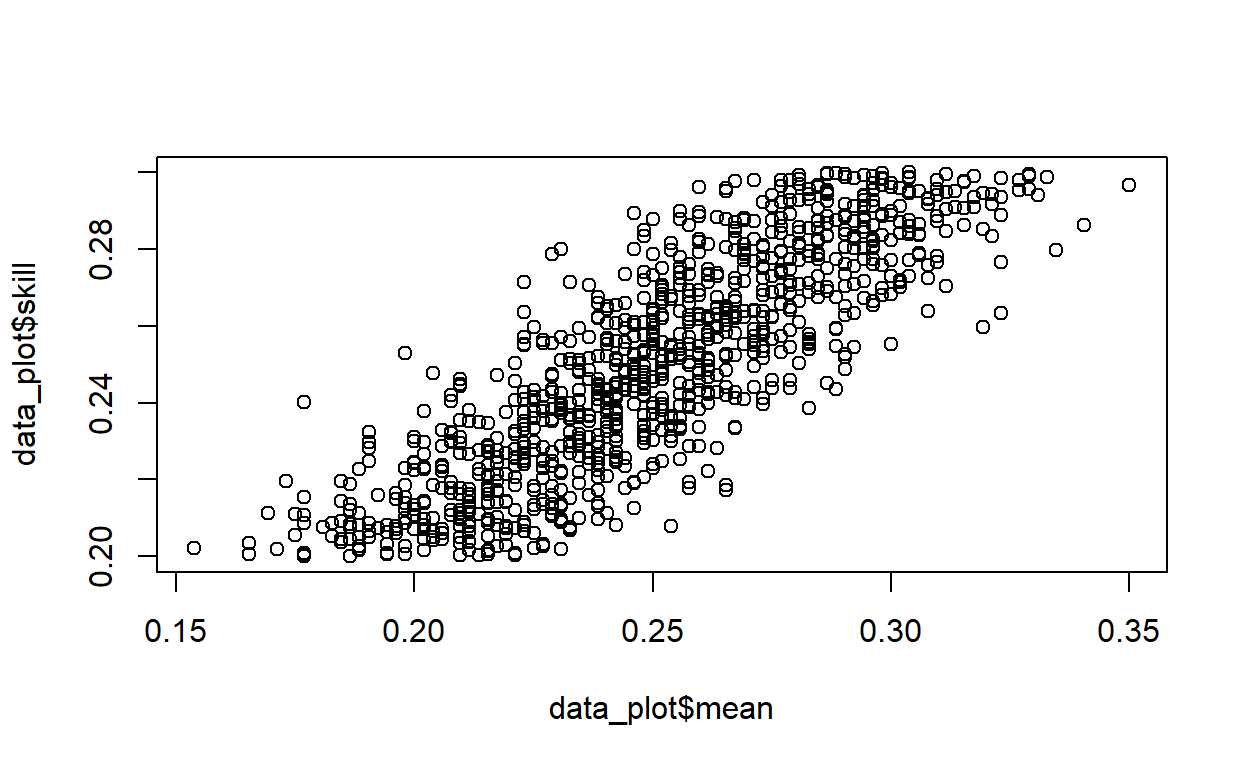
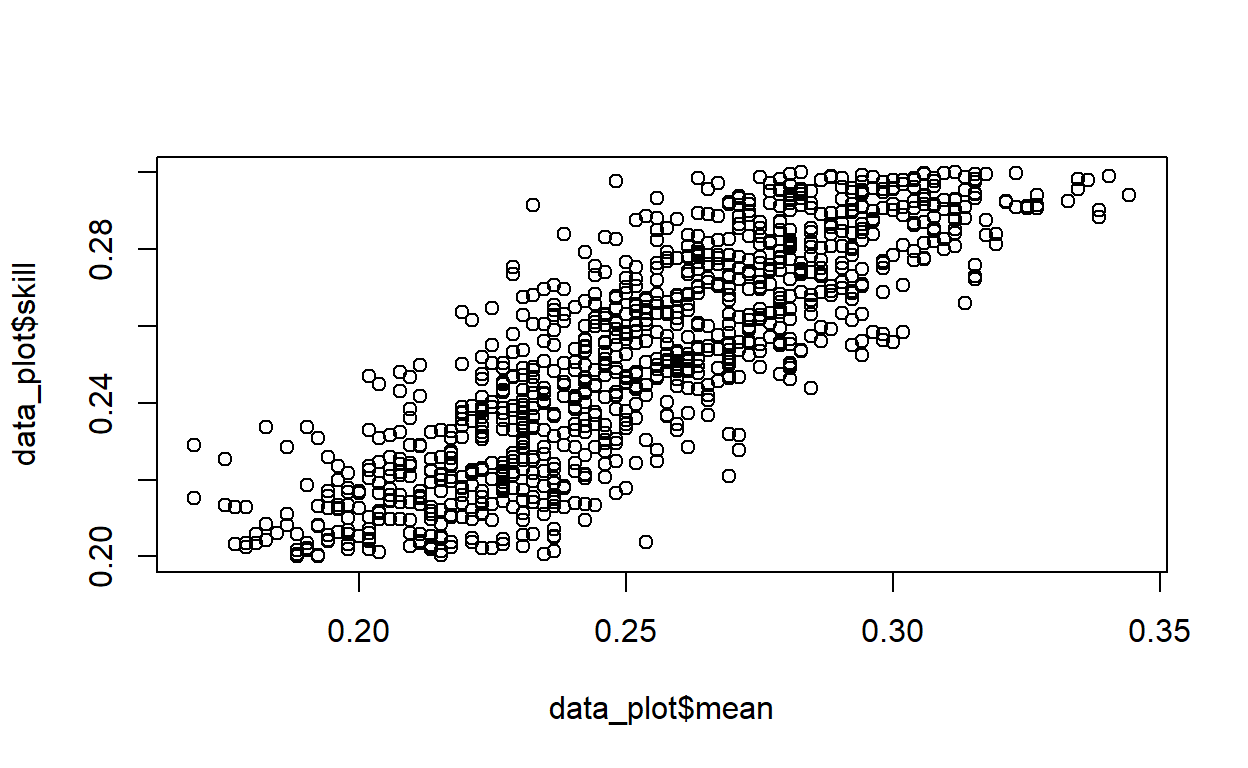
baseball

diff --git a/_posts/2023-02-05-baseball/baseball.html b/_posts/2023-02-05-baseball/baseball.html
@@ -1525,12 +1525,12 @@ code span.wa { color: #5e5e5e; font-style: italic; } /* Warning */
 <span></span>
 <span><span class='fu'><a href='https://rdrr.io/r/base/cat.html'>cat</a></span><span class='op'>(</span><span class='fu'><a href='https://rdrr.io/r/base/paste.html'>paste</a></span><span class='op'>(</span><span class='st'>"Korelacja wynosi "</span>, <span class='fu'><a href='https://rdrr.io/r/base/Round.html'>round</a></span><span class='op'>(</span><span class='fu'><a href='https://rdrr.io/r/stats/cor.html'>cor</a></span><span class='op'>(</span><span class='va'>data</span><span class='op'>$</span><span class='va'>X</span>,<span class='va'>data</span><span class='op'>$</span><span class='va'>Y</span><span class='op'>)</span>,<span class='fl'>3</span><span class='op'>)</span>,<span class='st'>"."</span>, sep <span class='op'>=</span> <span class='st'>""</span><span class='op'>)</span><span class='op'>)</span></span></code></pre>
 </div>
-<pre><code>Korelacja wynosi 0.079.</code></pre>
+<pre><code>Korelacja wynosi 0.078.</code></pre>
 <div class="sourceCode">
 <pre class="sourceCode r"><code class="sourceCode r"><span><span class='fu'><a href='https://rdrr.io/r/base/cat.html'>cat</a></span><span class='op'>(</span> <span class='fu'><a href='https://rdrr.io/r/base/paste.html'>paste</a></span><span class='op'>(</span><span class='st'>"Wariancja błędu wynosi"</span>,</span>
 <span><span class='fu'><a href='https://rdrr.io/r/base/Round.html'>round</a></span><span class='op'>(</span><span class='fu'><a href='https://rdrr.io/r/base/sum.html'>sum</a></span><span class='op'>(</span><span class='fu'><a href='https://rdrr.io/r/base/tapply.html'>tapply</a></span><span class='op'>(</span><span class='va'>data</span><span class='op'>$</span><span class='va'>X</span>, <span class='va'>data</span><span class='op'>$</span><span class='va'>Y</span>, <span class='va'>Var</span><span class='op'>)</span><span class='op'>*</span><span class='fu'><a href='https://rdrr.io/r/base/tapply.html'>tapply</a></span><span class='op'>(</span><span class='va'>data</span><span class='op'>$</span><span class='va'>X</span>, <span class='va'>data</span><span class='op'>$</span><span class='va'>Y</span>, <span class='va'>length</span><span class='op'>)</span><span class='op'>/</span><span class='fu'><a href='https://rdrr.io/r/base/length.html'>length</a></span><span class='op'>(</span><span class='va'>data</span><span class='op'>$</span><span class='va'>X</span><span class='op'>)</span><span class='op'>)</span>,<span class='fl'>3</span><span class='op'>)</span><span class='op'>)</span>,<span class='st'>"."</span>,sep <span class='op'>=</span> <span class='st'>""</span><span class='op'>)</span></span></code></pre>
 </div>
-<pre><code>Wariancja błędu wynosi 0.187.</code></pre>
+<pre><code>Wariancja błędu wynosi 0.188.</code></pre>
 <div class="sourceCode">
 <pre class="sourceCode r"><code class="sourceCode r"><span><span class='fu'><a href='https://rdrr.io/r/base/cat.html'>cat</a></span><span class='op'>(</span><span class='fu'><a href='https://rdrr.io/r/base/paste.html'>paste</a></span><span class='op'>(</span><span class='st'>"Wariancja przewidywania wynosi"</span>, <span class='fu'><a href='https://rdrr.io/r/base/Round.html'>round</a></span><span class='op'>(</span><span class='fu'>Var</span><span class='op'>(</span><span class='va'>data</span><span class='op'>$</span><span class='va'>X</span><span class='op'>)</span> </span>
 <span><span class='op'>-</span> <span class='fu'><a href='https://rdrr.io/r/base/sum.html'>sum</a></span><span class='op'>(</span><span class='fu'><a href='https://rdrr.io/r/base/tapply.html'>tapply</a></span><span class='op'>(</span><span class='va'>data</span><span class='op'>$</span><span class='va'>X</span>, <span class='va'>data</span><span class='op'>$</span><span class='va'>Y</span>, <span class='va'>Var</span><span class='op'>)</span><span class='op'>*</span><span class='fu'><a href='https://rdrr.io/r/base/tapply.html'>tapply</a></span><span class='op'>(</span><span class='va'>data</span><span class='op'>$</span><span class='va'>X</span>, <span class='va'>data</span><span class='op'>$</span><span class='va'>Y</span>, <span class='va'>length</span><span class='op'>)</span><span class='op'>/</span><span class='fu'><a href='https://rdrr.io/r/base/length.html'>length</a></span><span class='op'>(</span><span class='va'>data</span><span class='op'>$</span><span class='va'>X</span><span class='op'>)</span><span class='op'>)</span>,<span class='fl'>3</span><span class='op'>)</span>,<span class='st'>"."</span><span class='op'>)</span><span class='op'>)</span></span></code></pre>
@@ -1553,17 +1553,17 @@ code span.wa { color: #5e5e5e; font-style: italic; } /* Warning */
 <span><span class='op'>}</span></span>
 <span><span class='fu'><a href='https://rdrr.io/r/base/cat.html'>cat</a></span><span class='op'>(</span><span class='fu'><a href='https://rdrr.io/r/base/paste.html'>paste</a></span><span class='op'>(</span><span class='st'>"Korelacja wynosi "</span>, <span class='fu'><a href='https://rdrr.io/r/base/Round.html'>round</a></span><span class='op'>(</span><span class='fu'><a href='https://rdrr.io/r/stats/cor.html'>cor</a></span><span class='op'>(</span><span class='va'>data2</span><span class='op'>$</span><span class='va'>X</span>,<span class='va'>data2</span><span class='op'>$</span><span class='va'>Y</span><span class='op'>)</span>,<span class='fl'>3</span><span class='op'>)</span>,<span class='st'>"."</span>, sep <span class='op'>=</span> <span class='st'>""</span><span class='op'>)</span><span class='op'>)</span></span></code></pre>
 </div>
-<pre><code>Korelacja wynosi 0.421.</code></pre>
+<pre><code>Korelacja wynosi 0.438.</code></pre>
 <div class="sourceCode">
 <pre class="sourceCode r"><code class="sourceCode r"><span><span class='fu'><a href='https://rdrr.io/r/base/cat.html'>cat</a></span><span class='op'>(</span> <span class='fu'><a href='https://rdrr.io/r/base/paste.html'>paste</a></span><span class='op'>(</span><span class='st'>"Wariancja błędu wynosi"</span>,</span>
 <span><span class='fu'><a href='https://rdrr.io/r/base/Round.html'>round</a></span><span class='op'>(</span><span class='fu'><a href='https://rdrr.io/r/base/sum.html'>sum</a></span><span class='op'>(</span><span class='fu'><a href='https://rdrr.io/r/base/tapply.html'>tapply</a></span><span class='op'>(</span><span class='va'>data2</span><span class='op'>$</span><span class='va'>X</span>, <span class='va'>data2</span><span class='op'>$</span><span class='va'>Y</span>, <span class='va'>Var</span><span class='op'>)</span><span class='op'>*</span><span class='fu'><a href='https://rdrr.io/r/base/tapply.html'>tapply</a></span><span class='op'>(</span><span class='va'>data2</span><span class='op'>$</span><span class='va'>X</span>, <span class='va'>data2</span><span class='op'>$</span><span class='va'>Y</span>, <span class='va'>length</span><span class='op'>)</span><span class='op'>/</span><span class='fu'><a href='https://rdrr.io/r/base/length.html'>length</a></span><span class='op'>(</span><span class='va'>data2</span><span class='op'>$</span><span class='va'>X</span><span class='op'>)</span><span class='op'>)</span>,<span class='fl'>3</span><span class='op'>)</span><span class='op'>)</span>,<span class='st'>"."</span>,sep <span class='op'>=</span> <span class='st'>""</span><span class='op'>)</span></span></code></pre>
 </div>
-<pre><code>Wariancja błędu wynosi 0.181.</code></pre>
+<pre><code>Wariancja błędu wynosi 0.176.</code></pre>
 <div class="sourceCode">
 <pre class="sourceCode r"><code class="sourceCode r"><span><span class='fu'><a href='https://rdrr.io/r/base/cat.html'>cat</a></span><span class='op'>(</span><span class='fu'><a href='https://rdrr.io/r/base/paste.html'>paste</a></span><span class='op'>(</span><span class='st'>"Wariancja przewidywania wynosi"</span>, <span class='fu'><a href='https://rdrr.io/r/base/Round.html'>round</a></span><span class='op'>(</span><span class='fu'>Var</span><span class='op'>(</span><span class='va'>data2</span><span class='op'>$</span><span class='va'>X</span><span class='op'>)</span> </span>
 <span><span class='op'>-</span> <span class='fu'><a href='https://rdrr.io/r/base/sum.html'>sum</a></span><span class='op'>(</span><span class='fu'><a href='https://rdrr.io/r/base/tapply.html'>tapply</a></span><span class='op'>(</span><span class='va'>data2</span><span class='op'>$</span><span class='va'>X</span>, <span class='va'>data2</span><span class='op'>$</span><span class='va'>Y</span>, <span class='va'>Var</span><span class='op'>)</span><span class='op'>*</span><span class='fu'><a href='https://rdrr.io/r/base/tapply.html'>tapply</a></span><span class='op'>(</span><span class='va'>data2</span><span class='op'>$</span><span class='va'>X</span>, <span class='va'>data2</span><span class='op'>$</span><span class='va'>Y</span>, <span class='va'>length</span><span class='op'>)</span><span class='op'>/</span><span class='fu'><a href='https://rdrr.io/r/base/length.html'>length</a></span><span class='op'>(</span><span class='va'>data2</span><span class='op'>$</span><span class='va'>X</span><span class='op'>)</span><span class='op'>)</span>,<span class='fl'>3</span><span class='op'>)</span>,<span class='st'>"."</span><span class='op'>)</span><span class='op'>)</span></span></code></pre>
 </div>
-<pre><code>Wariancja przewidywania wynosi 0.039 .</code></pre>
+<pre><code>Wariancja przewidywania wynosi 0.042 .</code></pre>
 </div>
 <p>Otrzymaliśmy dużo wyższą korelację. Zobaczmy co się tu stało. Wariancja przewidywania znacznie wzrosła, natomiast wariancja błędu zmalała. Dlaczego tak się stało skoro związek pomiędzy zmiennymi jest taki sam w obu symulacjach?</p>
 <p>Odpowiedź na to pytanie zawiera się w samym wzorze na wyjaśniną wariancję. Przyjrzyjmy się najpierw wariancji przewidywania <span class="math inline">\(Var(E(X|Y))\)</span>. Ponieważ <span class="math inline">\(Y = E(X|Z)\)</span> to wtedy <span class="math inline">\(Var(E(X|Y)) = Var(E(X|Z)) = Var(Y)\)</span>.</p>
@@ -1583,7 +1583,7 @@ n\cdot \text{Var}(\mathbf{x}) &amp;= \sum_i (x_i - \bar{x})^2= \sum_i x_i^2 - 2x
 <p><span class="math display">\[\text{Var}(\mathbf{x}) \leq \bar{x}(c-\bar{x})\]</span></p>
 <p>średnia uderzeń graczy Abelsona</p>
 <p><span class="math display">\[eta^2 = \frac{Var(Y)}{Var(X)} \le \frac{0.07(0.1-0.07)}{0.1971} = 0.01065\]</span></p>
-<p>może w najlepszym wypadku wyjaśnić 1% wariancji. Widzimy ze wzoru, że rozszerzanie przedziału, w którym znajdują się możliwe średnie graczy, będzie zwiększało procent możliwej do wyjaśnienia wariancji.</p>
+<p>może w najlepszym wypadku wyjaśnić 1% wariancji. Widzimy ze wzoru, że zachowując wartość średniej sukcesów jako stałą, rozszerzanie przedziału, w którym znajdują się możliwe średnie graczy, będzie zwiększało procent możliwej do wyjaśnienia wariancji.</p>
 <p>Wydaje mi się, że zdziwienie Abelsona wynikało z faktu, że spodziewał się, że procent wyjaśnionej wariancji w pojedyńczym sukcesie przez średnią gracza powinen być wysoki, ponieważ przewidujemy zachowanie na podstawie średniej miary tegoż zachowania, czyli jego średniej w dłuższym okresie (analgoicznie do neurotyzmu mającego przewidywać zachowania neurotyczne).</p>
 <p>Jednak Abelson licząc procent wyjasnionej wariancji zadał inne pytanie, mianowicie <strong>jak dobrze możemy przewidzieć sukces gracza w pojedyńczej próbie na podostawie jego średniej</strong>. Jak zauważyliśmy, nie będzie dobrze przewidywać, ponieważ zmienna Y nie różnicuje wystarczająco dobrze pomiędzy graczami względem wielkości błędu. Można to rozumieć w katagoriach niskiej rzetelności.</p>
 <p>To zjawisko generalizuje się na inne przykłady. Żeby sobie to zwizualizować zobaczmy średnie graczy w sezonie z symulacji pierwszej (średnia z 520 prób pojedyńczych odbić) naprzeciw prawdziwych średnich (prawdopodobieństw, których użyłem do wygenerowania danych, możemy je potraktować jako ich prawdziwą zdolność gry w bejsbol).</p>
@@ -1614,9 +1614,9 @@ Generalizuje się fakt, że im bardziej różne od siebie są średnie warunkowe
 <div class="sourceCode">
 <pre class="sourceCode r"><code class="sourceCode r"><span><span class='fu'><a href='https://rdrr.io/r/base/cat.html'>cat</a></span><span class='op'>(</span><span class='fu'><a href='https://rdrr.io/r/base/paste.html'>paste</a></span><span class='op'>(</span><span class='st'>"Korelacja wynosi "</span>, <span class='fu'><a href='https://rdrr.io/r/base/Round.html'>round</a></span><span class='op'>(</span><span class='fu'><a href='https://rdrr.io/r/stats/cor.html'>cor</a></span><span class='op'>(</span><span class='va'>data2_plot</span><span class='op'>$</span><span class='va'>skill</span>,<span class='va'>data2_plot</span><span class='op'>$</span><span class='va'>mean</span><span class='op'>)</span>,<span class='fl'>3</span><span class='op'>)</span>,<span class='st'>"."</span>, sep <span class='op'>=</span> <span class='st'>""</span><span class='op'>)</span><span class='op'>)</span></span></code></pre>
 </div>
-<pre><code>Korelacja wynosi 0.995.</code></pre>
+<pre><code>Korelacja wynosi 0.996.</code></pre>
 </div>
-<p>Jak widzimy korelacja jest większa w drugiej symulacji, mimo, że związek pomiędzy zmiennymi jest taki sam. Mamy tu do czynienia ze zjawiskiem Restricted Range Corelation - czyli sytuacji w której zmienna w próbie ma mniejszą wariancję niż w populacji. Ponieważ obserwacje są do siebie bardziej podobne, (są bliżej siebie na wykresie) wpływ błędu jest większy. Przybliżmy teraz drugi wykres tak, by widzieć wartości prawdziwej średniej z zakresu między 0.2 a 0.3.</p>
+<p>Jak widzimy korelacja jest większa w drugiej symulacji, mimo, że związek pomiędzy zmiennymi jest taki sam. Mamy tu do czynienia ze zjawiskiem <strong>Restricted Range Corelation</strong> - czyli sytuacji w której zmienna w próbie ma mniejszą wariancję niż w populacji. Ponieważ obserwacje są do siebie bardziej podobne (są bliżej siebie na wykresie), wpływ błędu jest większy. Przybliżmy teraz drugi wykres tak, by widzieć wartości prawdziwej średniej z zakresu między 0.2 a 0.3.</p>
 <div class="layout-chunk" data-layout="l-body">
 <div class="sourceCode">
 <pre class="sourceCode r"><code class="sourceCode r"><span><span class='va'>data3_plot</span> <span class='op'>=</span> <span class='va'>data2_plot</span> <span class='op'><a href='https://magrittr.tidyverse.org/reference/pipe.html'>%&gt;%</a></span> <span class='fu'><a href='https://dplyr.tidyverse.org/reference/filter.html'>filter</a></span><span class='op'>(</span><span class='va'>skill</span> <span class='op'>&gt;</span><span class='fl'>0.2</span> <span class='op'>&amp;</span> <span class='va'>skill</span> <span class='op'>&lt;</span> <span class='fl'>0.3</span><span class='op'>)</span></span>
@@ -1627,7 +1627,7 @@ Generalizuje się fakt, że im bardziej różne od siebie są średnie warunkowe
 <div class="sourceCode">
 <pre class="sourceCode r"><code class="sourceCode r"><span><span class='fu'><a href='https://rdrr.io/r/base/cat.html'>cat</a></span><span class='op'>(</span><span class='fu'><a href='https://rdrr.io/r/base/paste.html'>paste</a></span><span class='op'>(</span><span class='st'>"Korelacja wynosi "</span>, <span class='fu'><a href='https://rdrr.io/r/base/Round.html'>round</a></span><span class='op'>(</span><span class='fu'><a href='https://rdrr.io/r/stats/cor.html'>cor</a></span><span class='op'>(</span><span class='va'>data3_plot</span><span class='op'>$</span><span class='va'>skill</span>,<span class='va'>data3_plot</span><span class='op'>$</span><span class='va'>mean</span><span class='op'>)</span>,<span class='fl'>3</span><span class='op'>)</span>,<span class='st'>"."</span>, sep <span class='op'>=</span> <span class='st'>""</span><span class='op'>)</span><span class='op'>)</span></span></code></pre>
 </div>
-<pre><code>Korelacja wynosi 0.834.</code></pre>
+<pre><code>Korelacja wynosi 0.837.</code></pre>
 </div>
 <p>Widzimy, że ten wykres przypomina pierwszy wykres. Zawęziliśmy zakres zmiennej, więc błąd wydaje się relatywnie większy.</p>
 <p>Co natomiast możemy powiedzieć o małych wielkościach efektu w psychologii? Mały efekt, to po prostu mały efekt. Nie kumuluje się w czasie. Ale to nie znaczy, że jest nieistony. Jeśli badamy zachowanie człowieka, byłoby wręcz dziwnie, jeśli efekt jednej zmiennej byłby duży, zwłaszcza w przypadku złożonych zachowań.</p>

diff --git a/posts/2023-02-05-baseball/index.html b/posts/2023-02-05-baseball/index.html
@@ -2148,12 +2148,12 @@ document.addEventListener('DOMContentLoaded', function() {
 <span></span>
 <span><span class='fu'><a href='https://rdrr.io/r/base/cat.html'>cat</a></span><span class='op'>(</span><span class='fu'><a href='https://rdrr.io/r/base/paste.html'>paste</a></span><span class='op'>(</span><span class='st'>"Korelacja wynosi "</span>, <span class='fu'><a href='https://rdrr.io/r/base/Round.html'>round</a></span><span class='op'>(</span><span class='fu'><a href='https://rdrr.io/r/stats/cor.html'>cor</a></span><span class='op'>(</span><span class='va'>data</span><span class='op'>$</span><span class='va'>X</span>,<span class='va'>data</span><span class='op'>$</span><span class='va'>Y</span><span class='op'>)</span>,<span class='fl'>3</span><span class='op'>)</span>,<span class='st'>"."</span>, sep <span class='op'>=</span> <span class='st'>""</span><span class='op'>)</span><span class='op'>)</span></span></code></pre>
 </div>
-<pre><code>Korelacja wynosi 0.079.</code></pre>
+<pre><code>Korelacja wynosi 0.078.</code></pre>
 <div class="sourceCode">
 <pre class="sourceCode r"><code class="sourceCode r"><span><span class='fu'><a href='https://rdrr.io/r/base/cat.html'>cat</a></span><span class='op'>(</span> <span class='fu'><a href='https://rdrr.io/r/base/paste.html'>paste</a></span><span class='op'>(</span><span class='st'>"Wariancja błędu wynosi"</span>,</span>
 <span><span class='fu'><a href='https://rdrr.io/r/base/Round.html'>round</a></span><span class='op'>(</span><span class='fu'><a href='https://rdrr.io/r/base/sum.html'>sum</a></span><span class='op'>(</span><span class='fu'><a href='https://rdrr.io/r/base/tapply.html'>tapply</a></span><span class='op'>(</span><span class='va'>data</span><span class='op'>$</span><span class='va'>X</span>, <span class='va'>data</span><span class='op'>$</span><span class='va'>Y</span>, <span class='va'>Var</span><span class='op'>)</span><span class='op'>*</span><span class='fu'><a href='https://rdrr.io/r/base/tapply.html'>tapply</a></span><span class='op'>(</span><span class='va'>data</span><span class='op'>$</span><span class='va'>X</span>, <span class='va'>data</span><span class='op'>$</span><span class='va'>Y</span>, <span class='va'>length</span><span class='op'>)</span><span class='op'>/</span><span class='fu'><a href='https://rdrr.io/r/base/length.html'>length</a></span><span class='op'>(</span><span class='va'>data</span><span class='op'>$</span><span class='va'>X</span><span class='op'>)</span><span class='op'>)</span>,<span class='fl'>3</span><span class='op'>)</span><span class='op'>)</span>,<span class='st'>"."</span>,sep <span class='op'>=</span> <span class='st'>""</span><span class='op'>)</span></span></code></pre>
 </div>
-<pre><code>Wariancja błędu wynosi 0.187.</code></pre>
+<pre><code>Wariancja błędu wynosi 0.188.</code></pre>
 <div class="sourceCode">
 <pre class="sourceCode r"><code class="sourceCode r"><span><span class='fu'><a href='https://rdrr.io/r/base/cat.html'>cat</a></span><span class='op'>(</span><span class='fu'><a href='https://rdrr.io/r/base/paste.html'>paste</a></span><span class='op'>(</span><span class='st'>"Wariancja przewidywania wynosi"</span>, <span class='fu'><a href='https://rdrr.io/r/base/Round.html'>round</a></span><span class='op'>(</span><span class='fu'>Var</span><span class='op'>(</span><span class='va'>data</span><span class='op'>$</span><span class='va'>X</span><span class='op'>)</span> </span>
 <span><span class='op'>-</span> <span class='fu'><a href='https://rdrr.io/r/base/sum.html'>sum</a></span><span class='op'>(</span><span class='fu'><a href='https://rdrr.io/r/base/tapply.html'>tapply</a></span><span class='op'>(</span><span class='va'>data</span><span class='op'>$</span><span class='va'>X</span>, <span class='va'>data</span><span class='op'>$</span><span class='va'>Y</span>, <span class='va'>Var</span><span class='op'>)</span><span class='op'>*</span><span class='fu'><a href='https://rdrr.io/r/base/tapply.html'>tapply</a></span><span class='op'>(</span><span class='va'>data</span><span class='op'>$</span><span class='va'>X</span>, <span class='va'>data</span><span class='op'>$</span><span class='va'>Y</span>, <span class='va'>length</span><span class='op'>)</span><span class='op'>/</span><span class='fu'><a href='https://rdrr.io/r/base/length.html'>length</a></span><span class='op'>(</span><span class='va'>data</span><span class='op'>$</span><span class='va'>X</span><span class='op'>)</span><span class='op'>)</span>,<span class='fl'>3</span><span class='op'>)</span>,<span class='st'>"."</span><span class='op'>)</span><span class='op'>)</span></span></code></pre>
@@ -2176,17 +2176,17 @@ document.addEventListener('DOMContentLoaded', function() {
 <span><span class='op'>}</span></span>
 <span><span class='fu'><a href='https://rdrr.io/r/base/cat.html'>cat</a></span><span class='op'>(</span><span class='fu'><a href='https://rdrr.io/r/base/paste.html'>paste</a></span><span class='op'>(</span><span class='st'>"Korelacja wynosi "</span>, <span class='fu'><a href='https://rdrr.io/r/base/Round.html'>round</a></span><span class='op'>(</span><span class='fu'><a href='https://rdrr.io/r/stats/cor.html'>cor</a></span><span class='op'>(</span><span class='va'>data2</span><span class='op'>$</span><span class='va'>X</span>,<span class='va'>data2</span><span class='op'>$</span><span class='va'>Y</span><span class='op'>)</span>,<span class='fl'>3</span><span class='op'>)</span>,<span class='st'>"."</span>, sep <span class='op'>=</span> <span class='st'>""</span><span class='op'>)</span><span class='op'>)</span></span></code></pre>
 </div>
-<pre><code>Korelacja wynosi 0.421.</code></pre>
+<pre><code>Korelacja wynosi 0.438.</code></pre>
 <div class="sourceCode">
 <pre class="sourceCode r"><code class="sourceCode r"><span><span class='fu'><a href='https://rdrr.io/r/base/cat.html'>cat</a></span><span class='op'>(</span> <span class='fu'><a href='https://rdrr.io/r/base/paste.html'>paste</a></span><span class='op'>(</span><span class='st'>"Wariancja błędu wynosi"</span>,</span>
 <span><span class='fu'><a href='https://rdrr.io/r/base/Round.html'>round</a></span><span class='op'>(</span><span class='fu'><a href='https://rdrr.io/r/base/sum.html'>sum</a></span><span class='op'>(</span><span class='fu'><a href='https://rdrr.io/r/base/tapply.html'>tapply</a></span><span class='op'>(</span><span class='va'>data2</span><span class='op'>$</span><span class='va'>X</span>, <span class='va'>data2</span><span class='op'>$</span><span class='va'>Y</span>, <span class='va'>Var</span><span class='op'>)</span><span class='op'>*</span><span class='fu'><a href='https://rdrr.io/r/base/tapply.html'>tapply</a></span><span class='op'>(</span><span class='va'>data2</span><span class='op'>$</span><span class='va'>X</span>, <span class='va'>data2</span><span class='op'>$</span><span class='va'>Y</span>, <span class='va'>length</span><span class='op'>)</span><span class='op'>/</span><span class='fu'><a href='https://rdrr.io/r/base/length.html'>length</a></span><span class='op'>(</span><span class='va'>data2</span><span class='op'>$</span><span class='va'>X</span><span class='op'>)</span><span class='op'>)</span>,<span class='fl'>3</span><span class='op'>)</span><span class='op'>)</span>,<span class='st'>"."</span>,sep <span class='op'>=</span> <span class='st'>""</span><span class='op'>)</span></span></code></pre>
 </div>
-<pre><code>Wariancja błędu wynosi 0.181.</code></pre>
+<pre><code>Wariancja błędu wynosi 0.176.</code></pre>
 <div class="sourceCode">
 <pre class="sourceCode r"><code class="sourceCode r"><span><span class='fu'><a href='https://rdrr.io/r/base/cat.html'>cat</a></span><span class='op'>(</span><span class='fu'><a href='https://rdrr.io/r/base/paste.html'>paste</a></span><span class='op'>(</span><span class='st'>"Wariancja przewidywania wynosi"</span>, <span class='fu'><a href='https://rdrr.io/r/base/Round.html'>round</a></span><span class='op'>(</span><span class='fu'>Var</span><span class='op'>(</span><span class='va'>data2</span><span class='op'>$</span><span class='va'>X</span><span class='op'>)</span> </span>
 <span><span class='op'>-</span> <span class='fu'><a href='https://rdrr.io/r/base/sum.html'>sum</a></span><span class='op'>(</span><span class='fu'><a href='https://rdrr.io/r/base/tapply.html'>tapply</a></span><span class='op'>(</span><span class='va'>data2</span><span class='op'>$</span><span class='va'>X</span>, <span class='va'>data2</span><span class='op'>$</span><span class='va'>Y</span>, <span class='va'>Var</span><span class='op'>)</span><span class='op'>*</span><span class='fu'><a href='https://rdrr.io/r/base/tapply.html'>tapply</a></span><span class='op'>(</span><span class='va'>data2</span><span class='op'>$</span><span class='va'>X</span>, <span class='va'>data2</span><span class='op'>$</span><span class='va'>Y</span>, <span class='va'>length</span><span class='op'>)</span><span class='op'>/</span><span class='fu'><a href='https://rdrr.io/r/base/length.html'>length</a></span><span class='op'>(</span><span class='va'>data2</span><span class='op'>$</span><span class='va'>X</span><span class='op'>)</span><span class='op'>)</span>,<span class='fl'>3</span><span class='op'>)</span>,<span class='st'>"."</span><span class='op'>)</span><span class='op'>)</span></span></code></pre>
 </div>
-<pre><code>Wariancja przewidywania wynosi 0.039 .</code></pre>
+<pre><code>Wariancja przewidywania wynosi 0.042 .</code></pre>
 </div>
 <p>Otrzymaliśmy dużo wyższą korelację. Zobaczmy co się tu stało. Wariancja przewidywania znacznie wzrosła, natomiast wariancja błędu zmalała. Dlaczego tak się stało skoro związek pomiędzy zmiennymi jest taki sam w obu symulacjach?</p>
 <p>Odpowiedź na to pytanie zawiera się w samym wzorze na wyjaśniną wariancję. Przyjrzyjmy się najpierw wariancji przewidywania <span class="math inline">\(Var(E(X|Y))\)</span>. Ponieważ <span class="math inline">\(Y = E(X|Z)\)</span> to wtedy <span class="math inline">\(Var(E(X|Y)) = Var(E(X|Z)) = Var(Y)\)</span>.</p>
@@ -2206,7 +2206,7 @@ n\cdot \text{Var}(\mathbf{x}) &amp;= \sum_i (x_i - \bar{x})^2= \sum_i x_i^2 - 2x
 <p><span class="math display">\[\text{Var}(\mathbf{x}) \leq \bar{x}(c-\bar{x})\]</span></p>
 <p>średnia uderzeń graczy Abelsona</p>
 <p><span class="math display">\[eta^2 = \frac{Var(Y)}{Var(X)} \le \frac{0.07(0.1-0.07)}{0.1971} = 0.01065\]</span></p>
-<p>może w najlepszym wypadku wyjaśnić 1% wariancji. Widzimy ze wzoru, że rozszerzanie przedziału, w którym znajdują się możliwe średnie graczy, będzie zwiększało procent możliwej do wyjaśnienia wariancji.</p>
+<p>może w najlepszym wypadku wyjaśnić 1% wariancji. Widzimy ze wzoru, że zachowując wartość średniej sukcesów jako stałą, rozszerzanie przedziału, w którym znajdują się możliwe średnie graczy, będzie zwiększało procent możliwej do wyjaśnienia wariancji.</p>
 <p>Wydaje mi się, że zdziwienie Abelsona wynikało z faktu, że spodziewał się, że procent wyjaśnionej wariancji w pojedyńczym sukcesie przez średnią gracza powinen być wysoki, ponieważ przewidujemy zachowanie na podstawie średniej miary tegoż zachowania, czyli jego średniej w dłuższym okresie (analgoicznie do neurotyzmu mającego przewidywać zachowania neurotyczne).</p>
 <p>Jednak Abelson licząc procent wyjasnionej wariancji zadał inne pytanie, mianowicie <strong>jak dobrze możemy przewidzieć sukces gracza w pojedyńczej próbie na podostawie jego średniej</strong>. Jak zauważyliśmy, nie będzie dobrze przewidywać, ponieważ zmienna Y nie różnicuje wystarczająco dobrze pomiędzy graczami względem wielkości błędu. Można to rozumieć w katagoriach niskiej rzetelności.</p>
 <p>To zjawisko generalizuje się na inne przykłady. Żeby sobie to zwizualizować zobaczmy średnie graczy w sezonie z symulacji pierwszej (średnia z 520 prób pojedyńczych odbić) naprzeciw prawdziwych średnich (prawdopodobieństw, których użyłem do wygenerowania danych, możemy je potraktować jako ich prawdziwą zdolność gry w bejsbol).</p>
@@ -2237,9 +2237,9 @@ Generalizuje się fakt, że im bardziej różne od siebie są średnie warunkowe
 <div class="sourceCode">
 <pre class="sourceCode r"><code class="sourceCode r"><span><span class='fu'><a href='https://rdrr.io/r/base/cat.html'>cat</a></span><span class='op'>(</span><span class='fu'><a href='https://rdrr.io/r/base/paste.html'>paste</a></span><span class='op'>(</span><span class='st'>"Korelacja wynosi "</span>, <span class='fu'><a href='https://rdrr.io/r/base/Round.html'>round</a></span><span class='op'>(</span><span class='fu'><a href='https://rdrr.io/r/stats/cor.html'>cor</a></span><span class='op'>(</span><span class='va'>data2_plot</span><span class='op'>$</span><span class='va'>skill</span>,<span class='va'>data2_plot</span><span class='op'>$</span><span class='va'>mean</span><span class='op'>)</span>,<span class='fl'>3</span><span class='op'>)</span>,<span class='st'>"."</span>, sep <span class='op'>=</span> <span class='st'>""</span><span class='op'>)</span><span class='op'>)</span></span></code></pre>
 </div>
-<pre><code>Korelacja wynosi 0.995.</code></pre>
+<pre><code>Korelacja wynosi 0.996.</code></pre>
 </div>
-<p>Jak widzimy korelacja jest większa w drugiej symulacji, mimo, że związek pomiędzy zmiennymi jest taki sam. Mamy tu do czynienia ze zjawiskiem Restricted Range Corelation - czyli sytuacji w której zmienna w próbie ma mniejszą wariancję niż w populacji. Ponieważ obserwacje są do siebie bardziej podobne, (są bliżej siebie na wykresie) wpływ błędu jest większy. Przybliżmy teraz drugi wykres tak, by widzieć wartości prawdziwej średniej z zakresu między 0.2 a 0.3.</p>
+<p>Jak widzimy korelacja jest większa w drugiej symulacji, mimo, że związek pomiędzy zmiennymi jest taki sam. Mamy tu do czynienia ze zjawiskiem <strong>Restricted Range Corelation</strong> - czyli sytuacji w której zmienna w próbie ma mniejszą wariancję niż w populacji. Ponieważ obserwacje są do siebie bardziej podobne (są bliżej siebie na wykresie), wpływ błędu jest większy. Przybliżmy teraz drugi wykres tak, by widzieć wartości prawdziwej średniej z zakresu między 0.2 a 0.3.</p>
 <div class="layout-chunk" data-layout="l-body">
 <div class="sourceCode">
 <pre class="sourceCode r"><code class="sourceCode r"><span><span class='va'>data3_plot</span> <span class='op'>=</span> <span class='va'>data2_plot</span> <span class='op'><a href='https://magrittr.tidyverse.org/reference/pipe.html'>%&gt;%</a></span> <span class='fu'><a href='https://dplyr.tidyverse.org/reference/filter.html'>filter</a></span><span class='op'>(</span><span class='va'>skill</span> <span class='op'>&gt;</span><span class='fl'>0.2</span> <span class='op'>&amp;</span> <span class='va'>skill</span> <span class='op'>&lt;</span> <span class='fl'>0.3</span><span class='op'>)</span></span>
@@ -2250,7 +2250,7 @@ Generalizuje się fakt, że im bardziej różne od siebie są średnie warunkowe
 <div class="sourceCode">
 <pre class="sourceCode r"><code class="sourceCode r"><span><span class='fu'><a href='https://rdrr.io/r/base/cat.html'>cat</a></span><span class='op'>(</span><span class='fu'><a href='https://rdrr.io/r/base/paste.html'>paste</a></span><span class='op'>(</span><span class='st'>"Korelacja wynosi "</span>, <span class='fu'><a href='https://rdrr.io/r/base/Round.html'>round</a></span><span class='op'>(</span><span class='fu'><a href='https://rdrr.io/r/stats/cor.html'>cor</a></span><span class='op'>(</span><span class='va'>data3_plot</span><span class='op'>$</span><span class='va'>skill</span>,<span class='va'>data3_plot</span><span class='op'>$</span><span class='va'>mean</span><span class='op'>)</span>,<span class='fl'>3</span><span class='op'>)</span>,<span class='st'>"."</span>, sep <span class='op'>=</span> <span class='st'>""</span><span class='op'>)</span><span class='op'>)</span></span></code></pre>
 </div>
-<pre><code>Korelacja wynosi 0.834.</code></pre>
+<pre><code>Korelacja wynosi 0.837.</code></pre>
 </div>
 <p>Widzimy, że ten wykres przypomina pierwszy wykres. Zawęziliśmy zakres zmiennej, więc błąd wydaje się relatywnie większy.</p>
 <p>Co natomiast możemy powiedzieć o małych wielkościach efektu w psychologii? Mały efekt, to po prostu mały efekt. Nie kumuluje się w czasie. Ale to nie znaczy, że jest nieistony. Jeśli badamy zachowanie człowieka, byłoby wręcz dziwnie, jeśli efekt jednej zmiennej byłby duży, zwłaszcza w przypadku złożonych zachowań.</p>
